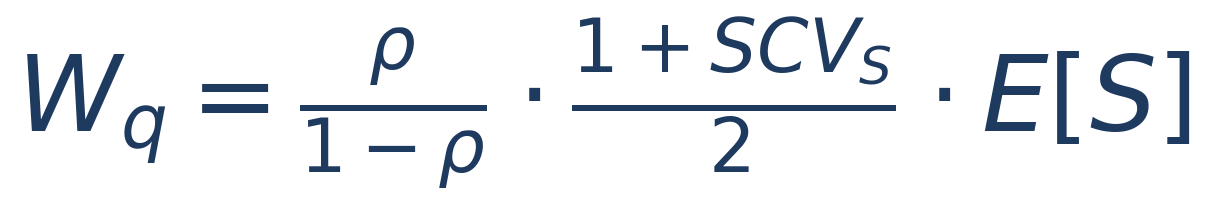
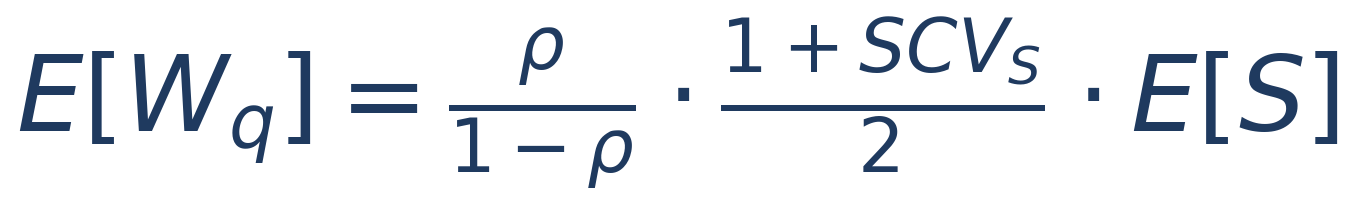
Swap assignments 4 and 5 (folders and file names); deck 10: write P-K formula as E[W_q]

diff --git a/lectures/presentation/build_nb10.py b/lectures/presentation/build_nb10.py
@@ -236,7 +236,7 @@ d.table(
 
 d.figure_text(
     "הנוסחה מאשרת את הסימולציה",
-    formula("pk", [r"W_q = \frac{\rho}{1-\rho} \cdot \frac{1 + SCV_S}{2} \cdot E[S]"], fontsize=38),
+    formula("pk", [r"E[W_q] = \frac{\rho}{1-\rho} \cdot \frac{1 + SCV_S}{2} \cdot E[S]"], fontsize=38),
     [
         ("Pollaczek–Khinchine", "נוסחה סגורה לתור עם הגעות פואסון ושירות כללי."),
         ("עבור ארלנג", "הגורם השני הוא 0.6, ולכן זמן ההמתנה בתור הוא 1.40."),
